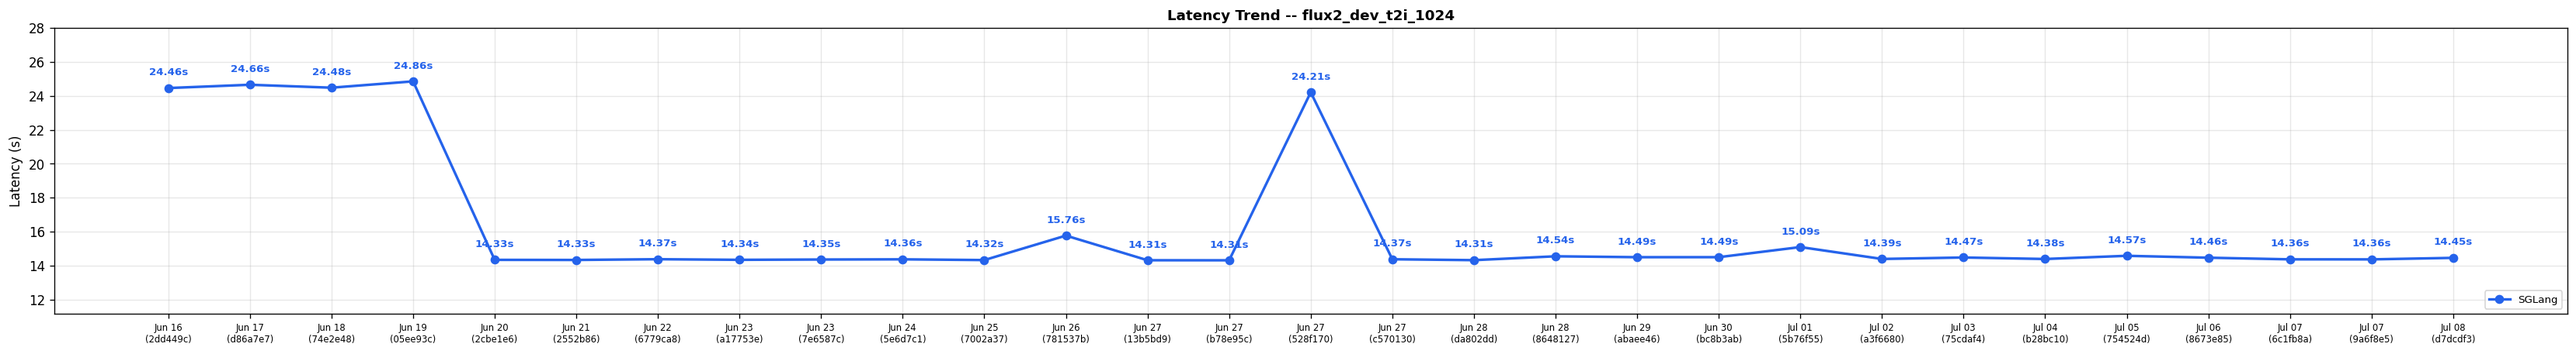
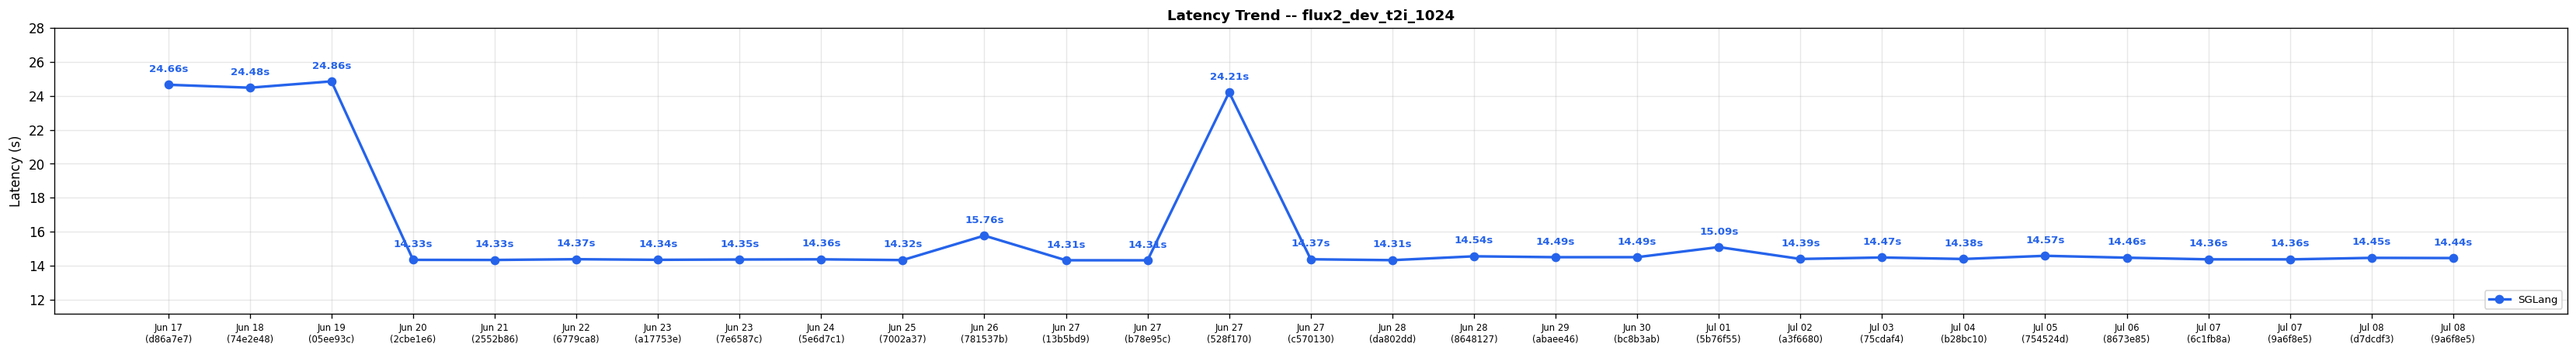
Diffusion comparison results for run 28848316166 (#38)

diff --git a/diffusion-comparisons/dashboard.md b/diffusion-comparisons/dashboard.md
@@ -1,29 +1,28 @@
 # SGLang-Diffusion Nightly Performance Dashboard
 
-*Generated: Jul 08 | Commit: `d7dcdf3`*
+*Generated: Jul 08 | Commit: `9a6f8e5`*
 
 > [!WARNING]
 > **Performance Regression Detected**
 >
-> - **qwen_image_2512_t2i_1024** (sglang): 8.77s -> 11.00s (+25.4%)
-> - **ltx2.3_twostage_ti2v_2gpus** (sglang): 13.07s -> 16.06s (+22.9%)
+> - **qwen_image_2512_t2i_1024** (sglang): 11.00s -> 11.60s (+5.5%)
 
 
 ## SGLang-Diffusion Performance
 
 | Model | Risk | sglang (s) |
 |-------|------|---------|
-| FLUX.1-dev | ✅ | **4.85** |
-| FLUX.2-dev | ✅ | **14.45** |
-| Qwen-Image-2512 | ⚠ | **11.00** |
-| Qwen-Image-Edit-2511 | ✅ | **15.45** |
-| Z-Image-Turbo | ✅ | **0.82** |
-| Wan2.2-T2V-A14B-Diffusers | ✅ | **210.76** |
-| Wan2.2-TI2V-5B-Diffusers | ✅ | **65.22** |
-| LTX-2.3 | ⚠ | **16.06** |
+| FLUX.1-dev | ✅ | **4.86** |
+| FLUX.2-dev | ✅ | **14.44** |
+| Qwen-Image-2512 | ⚠ | **11.60** |
+| Qwen-Image-Edit-2511 | ✅ | **15.46** |
+| Z-Image-Turbo | ✅ | **0.83** |
+| Wan2.2-T2V-A14B-Diffusers | ✅ | **210.71** |
+| Wan2.2-TI2V-5B-Diffusers | ✅ | **65.20** |
+| LTX-2.3 | ⚠ | **16.07** |
 | ideogram-4-fp8 | ✅ | **5.34** |
-| Cosmos3-Super | ✅ | **116.39** |
-| Wan2.2-I2V-A14B-Diffusers | ✅ | **204.66** |
+| Cosmos3-Super | ✅ | **116.37** |
+| Wan2.2-I2V-A14B-Diffusers | ✅ | **204.71** |
 
 ### Latency Trend: flux1_dev_t2i_1024
 
@@ -84,6 +83,7 @@
 
 | Date | Commit | flux1_dev_t2i_1024 (s) | flux2_dev_t2i_1024 (s) | qwen_image_2512_t2i_1024 (s) | qwen_image_edit_2511 (s) | zimage_turbo_t2i_1024 (s) | wan22_t2v_a14b_720p (s) | wan22_ti2v_5b_720p (s) | ltx2.3_twostage_ti2v_2gpus (s) | ideogram4_fp8_t2i_2gpu (s) | cosmos3_super_t2v_2gpu (s) | wan22_i2v_a14b_720p (s) | Trend |
 |------|--------|---------|---------|---------|---------|---------|---------|---------|---------|---------|---------|---------|-------|
+| Jul 08 | `9a6f8e5` | 4.86 | 14.44 | 11.60 | 15.46 | 0.83 | 210.71 | 65.20 | 16.07 | 5.34 | 116.37 | 204.71 | :left_right_arrow:  :left_right_arrow:  :arrow_up:  :left_right_arrow:  :left_right_arrow:  :left_right_arrow:  :left_right_arrow:  :left_right_arrow:  :left_right_arrow:  :left_right_arrow:  :left_right_arrow: |
 | Jul 08 | `d7dcdf3` | 4.85 | 14.45 | 11.00 | 15.45 | 0.82 | 210.76 | 65.22 | 16.06 | 5.34 | 116.39 | 204.66 | :left_right_arrow:  :left_right_arrow:  :arrow_up:  :left_right_arrow:  :arrow_down:  :left_right_arrow:  :left_right_arrow:  :arrow_up:  :left_right_arrow:  :left_right_arrow:  :left_right_arrow: |
 | Jul 07 | `9a6f8e5` | 4.82 | 14.36 | 8.77 | 15.25 | 2.13 | 210.69 | 64.24 | 13.07 | 5.27 | 115.38 | 203.70 | :left_right_arrow:  :left_right_arrow:  :left_right_arrow:  :left_right_arrow:  :arrow_up:  :left_right_arrow:  :left_right_arrow:  :left_right_arrow:  :left_right_arrow:  :left_right_arrow:  :left_right_arrow: |
 | Jul 07 | `6c1fb8a` | 4.81 | 14.36 | 8.78 | 15.28 | 0.80 | 210.67 | 64.22 | 13.06 | 5.31 | 115.39 | 203.73 | :arrow_down:  :left_right_arrow:  :arrow_down:  :left_right_arrow:  :left_right_arrow:  :left_right_arrow:  :left_right_arrow:  :left_right_arrow:  :left_right_arrow:  :left_right_arrow:  :left_right_arrow: |
@@ -112,15 +112,14 @@
 | Jun 20 | `2cbe1e6` | 4.65 | 14.33 | 12.78 | 23.63 | 0.66 | 209.30 | 64.20 | 15.05 | N/A | N/A | 205.54 | :arrow_down:  :arrow_down:  :left_right_arrow:  :left_right_arrow:  :arrow_down:  :left_right_arrow:  :left_right_arrow:  :left_right_arrow:    :left_right_arrow: |
 | Jun 19 | `05ee93c` | 6.99 | 24.86 | 12.81 | 23.75 | 0.91 | 209.14 | 65.23 | 15.06 | N/A | N/A | 204.65 | :left_right_arrow:  :left_right_arrow:  :left_right_arrow:  :left_right_arrow:  :left_right_arrow:  :left_right_arrow:  :left_right_arrow:  :arrow_down:    :left_right_arrow: |
 | Jun 18 | `74e2e48` | 6.93 | 24.48 | 12.71 | 23.57 | 0.92 | 209.03 | 64.21 | 24.08 | N/A | N/A | 204.67 | :left_right_arrow:  :left_right_arrow:  :left_right_arrow:  :left_right_arrow:  :left_right_arrow:  :left_right_arrow:  :left_right_arrow:  :arrow_up:    :left_right_arrow: |
-| Jun 17 | `d86a7e7` | 6.99 | 24.66 | 12.85 | 23.70 | 0.91 | 211.01 | 65.22 | 20.08 | N/A | N/A | 206.64 | :left_right_arrow:  :left_right_arrow:  :left_right_arrow:  :left_right_arrow:  :left_right_arrow:  :left_right_arrow:  :left_right_arrow:  :arrow_up:    :left_right_arrow: |
-| Jun 16 | `2dd449c` | 6.91 | 24.46 | 12.71 | 23.52 | 0.90 | 210.42 | 64.23 | 18.07 | N/A | N/A | 205.75 | -- |
+| Jun 17 | `d86a7e7` | 6.99 | 24.66 | 12.85 | 23.70 | 0.91 | 211.01 | 65.22 | 20.08 | N/A | N/A | 206.64 | -- |
 
 > [!CAUTION]
 > **Action Required — Performance Alert**
 >
 > The following cases need attention:
-> - qwen_image_2512_t2i_1024: SGLang regression +22.7% vs 3-run avg (11.00s vs 8.96s)
-> - ltx2.3_twostage_ti2v_2gpus: SGLang regression +23.0% vs 3-run avg (16.06s vs 13.06s)
+> - qwen_image_2512_t2i_1024: SGLang regression +21.9% vs 3-run avg (11.60s vs 9.51s)
+> - ltx2.3_twostage_ti2v_2gpus: SGLang regression +14.3% vs 3-run avg (16.07s vs 14.06s)
 
 
 ---
